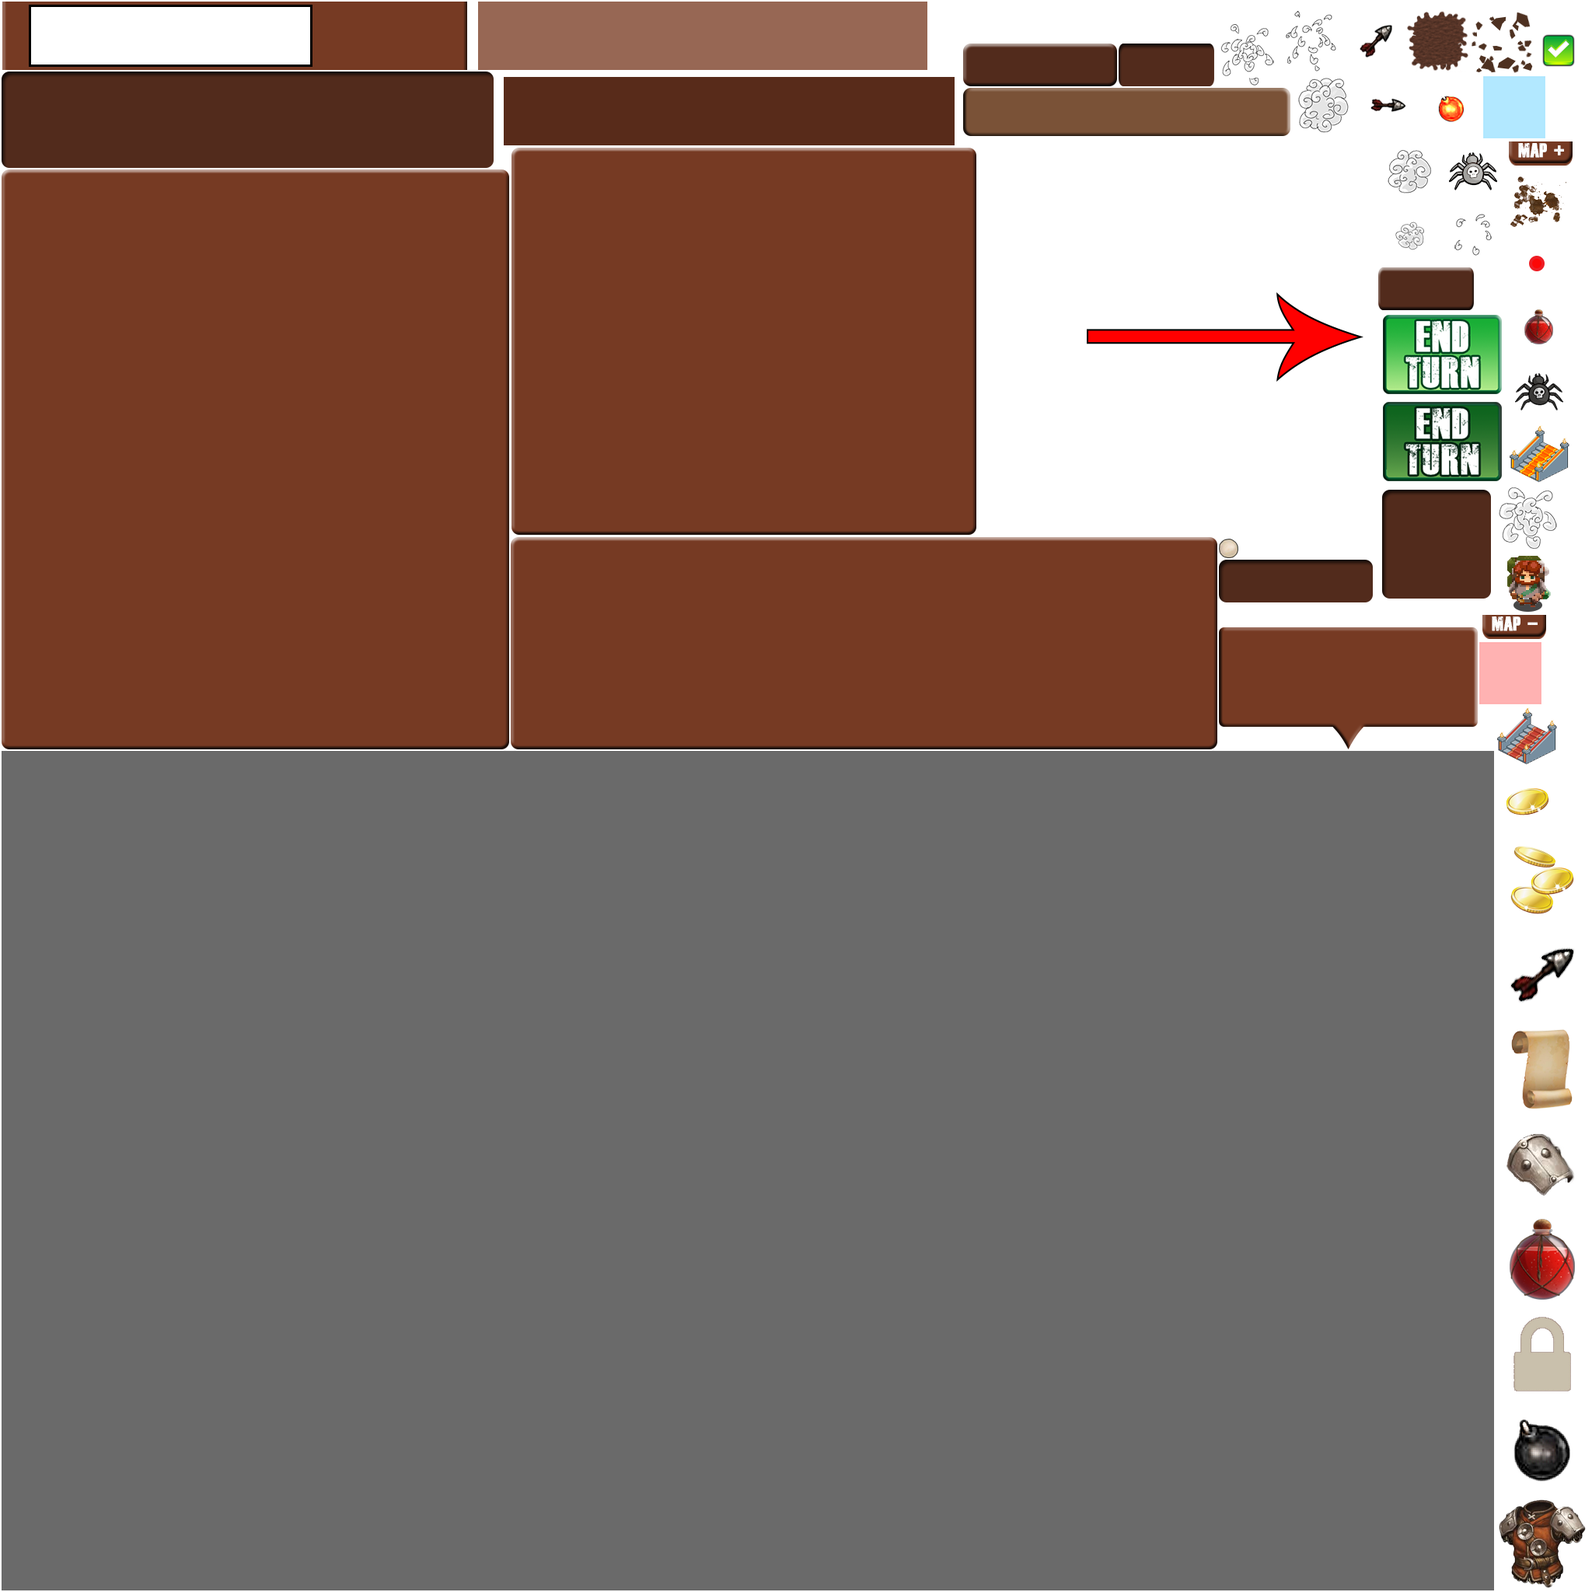
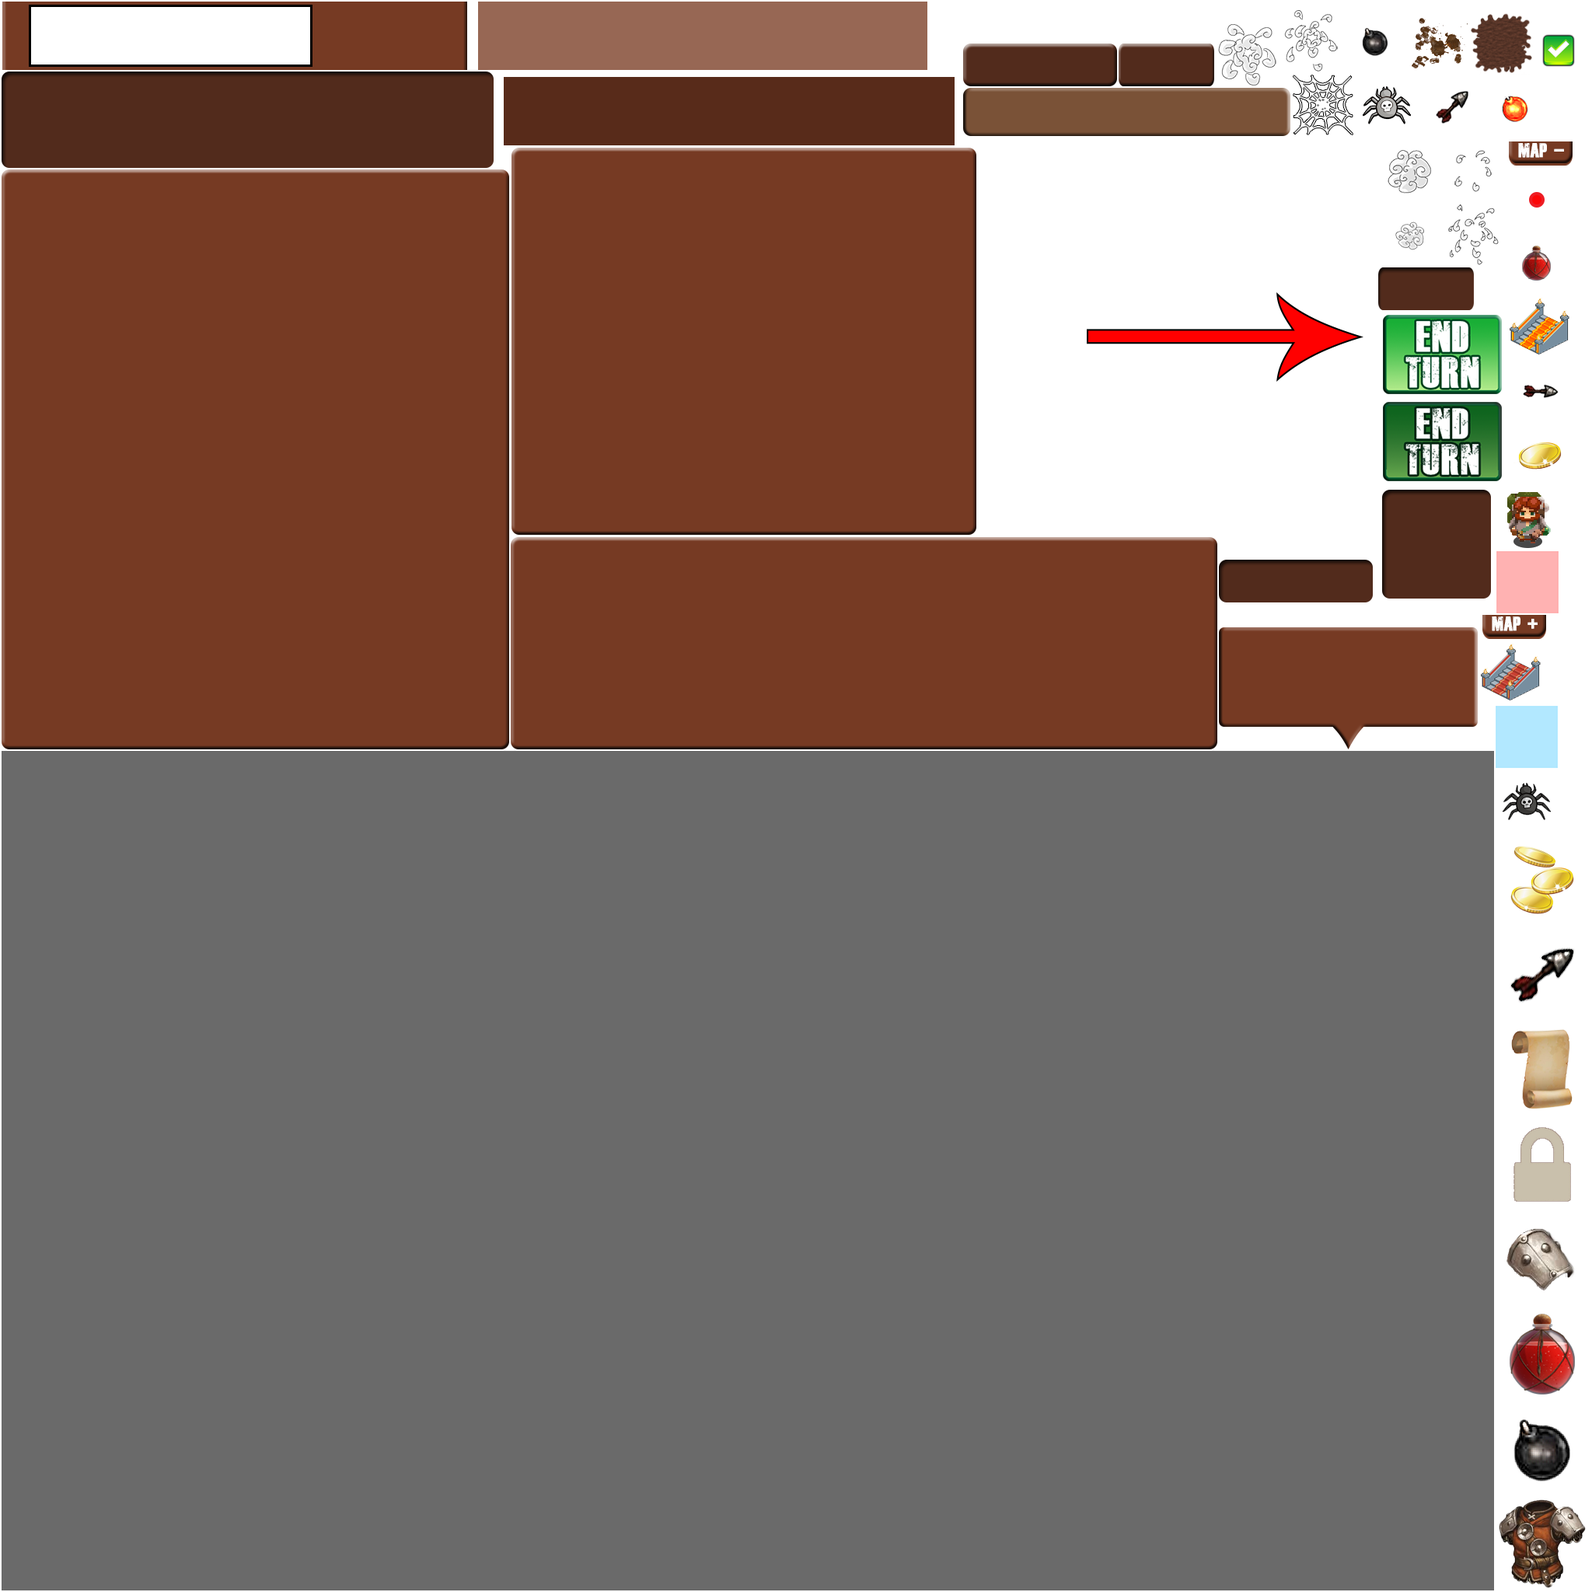
[Web spider] Added the creepEmitterComponent to that the spider leaves web on it's trail + added the projectile image when the spider attacks.

Changed region(s): [[0.75, 0.0, 1.0, 0.5312], [0.9375, 0.6875, 1.0, 0.875]]

diff --git a/core/src/com/dokkaebistudio/tacticaljourney/systems/EnemySystem.java b/core/src/com/dokkaebistudio/tacticaljourney/systems/EnemySystem.java
@@ -7,6 +7,9 @@ import java.util.Map;
 
 import com.badlogic.ashley.core.Entity;
 import com.badlogic.ashley.core.EntitySystem;
+import com.badlogic.gdx.scenes.scene2d.Action;
+import com.badlogic.gdx.scenes.scene2d.Stage;
+import com.dokkaebistudio.tacticaljourney.Assets;
 import com.dokkaebistudio.tacticaljourney.ai.enemies.EnemyActionSelector;
 import com.dokkaebistudio.tacticaljourney.ai.movements.AttackTileSearchService;
 import com.dokkaebistudio.tacticaljourney.ai.movements.AttackTypeEnum;
@@ -28,6 +31,9 @@ public class EnemySystem extends EntitySystem implements RoomSystem {
 
     /** The room. */
     private Room room;
+    
+    /** The fx stage for attack animations. */
+    private Stage fxStage;
    
     /** The enemies of the current room that need updating. */
     private List<Entity> allEnemiesOfCurrentRoom;
@@ -39,12 +45,16 @@ public class EnemySystem extends EntitySystem implements RoomSystem {
 	private TileSearchService tileSearchService;
 	/** The attack tile search service. */
 	private AttackTileSearchService attackTileSearchService;
+	
+	
+	private int enemyFinishedCount = 0;
 
 
-    public EnemySystem(Room r) {
+    public EnemySystem(Room r, Stage stage) {
 		this.priority = 9;
 
         room = r;
+        fxStage = stage;
         movementHandler = new MovementHandler(r.engine);
         allEnemiesOfCurrentRoom = new ArrayList<>();
 		this.tileSearchService = new TileSearchService();
@@ -75,8 +85,8 @@ public class EnemySystem extends EntitySystem implements RoomSystem {
     	}
     	
     	
-    	int enemyFinishedCount = 0;
-    	for (Entity enemyEntity : allEnemiesOfCurrentRoom) {
+    	enemyFinishedCount = 0;
+    	for (final Entity enemyEntity : allEnemiesOfCurrentRoom) {
     		HealthComponent healthComponent = Mappers.healthComponent.get(enemyEntity);
     		if (healthComponent == null || healthComponent.isDead()) {
     			continue;
@@ -88,8 +98,8 @@ public class EnemySystem extends EntitySystem implements RoomSystem {
     		}
     		
         	MoveComponent moveCompo = Mappers.moveComponent.get(enemyEntity);
-        	AttackComponent attackCompo = Mappers.attackComponent.get(enemyEntity);
-        	GridPositionComponent moverCurrentPos = Mappers.gridPositionComponent.get(enemyEntity);
+        	final AttackComponent attackCompo = Mappers.attackComponent.get(enemyEntity);
+        	GridPositionComponent enemyCurrentPos = Mappers.gridPositionComponent.get(enemyEntity);
     		
     		switch(room.getState()) {
         	case ENEMY_TURN_INIT :
@@ -124,7 +134,7 @@ public class EnemySystem extends EntitySystem implements RoomSystem {
     				moveCompo.setSelectedTile(destinationTileEntity);
     					
     				//Display the way to go to this point
-    				List<Entity> waypoints = tileSearchService.buildWaypointList(moveCompo, moverCurrentPos, destinationPos, room);
+    				List<Entity> waypoints = tileSearchService.buildWaypointList(moveCompo, enemyCurrentPos, destinationPos, room);
     		       	moveCompo.setWayPoints(waypoints);
     		       	moveCompo.hideMovementEntities();
             		room.setNextState(RoomState.ENEMY_MOVE_DESTINATION_SELECTED);
@@ -166,24 +176,61 @@ public class EnemySystem extends EntitySystem implements RoomSystem {
         	case ENEMY_ATTACK:
         		
         		//Check if attack possible
+        		boolean attacked = false;
     	    	if (attackCompo.attackableTiles != null && !attackCompo.attackableTiles.isEmpty()) {
     	    		for (Entity attTile : attackCompo.attackableTiles) {
     	    			GridPositionComponent attTilePos = Mappers.gridPositionComponent.get(attTile);
-    	    			int range = TileUtil.getDistanceBetweenTiles(moverCurrentPos.coord(), attTilePos.coord());
+    	    			int range = TileUtil.getDistanceBetweenTiles(enemyCurrentPos.coord(), attTilePos.coord());
 						if (range <= attackCompo.getRangeMax() && range >= attackCompo.getRangeMin()) {
     	    				//Attack possible
 							Entity target = TileUtil.getAttackableEntityOnTile(attTilePos.coord(), room);
             				attackCompo.setTarget(target);
-							room.attackManager.performAttack(enemyEntity, attackCompo);
+            				
+            				attacked = true;
+            				room.setNextState(RoomState.ENEMY_ATTACK_ANIMATION);
     	    			}
     	    		}
     	    	}
-    	    	attackCompo.clearAttackableTiles();
+    	    	attackCompo.hideAttackableTiles();
     	    	
-    	    	enemyFinishedCount ++;
-    	    	turnFinished.put(enemyEntity, new Boolean(true));
-    	    	room.setNextState(RoomState.ENEMY_TURN_INIT);
+    	    	if (!attacked) {
+    	    		finishOneEnemyTurn(enemyEntity, attackCompo);
+    	    	}
     	    	
+        		break;
+        		
+        	case ENEMY_ATTACK_ANIMATION:
+        		
+        		// Play attack animation
+				if (attackCompo.getAttackType() == AttackTypeEnum.RANGE) {
+	    			
+	    			if (attackCompo.getProjectileImage() == null) {
+	    				
+	    				Action finishAttackAction = new Action(){
+						  @Override
+						  public boolean act(float delta){
+							room.attackManager.performAttack(enemyEntity, attackCompo);
+		    	    		finishOneEnemyTurn(enemyEntity, attackCompo);
+						    return true;
+						  }
+						};
+	    				
+	    				GridPositionComponent targetPos = Mappers.gridPositionComponent.get(attackCompo.getTarget());
+	    				attackCompo.setProjectileImage(Assets.projectile_web,
+	    						enemyCurrentPos.coord(), 
+	    						targetPos.coord(), 
+	    						true,
+	    						finishAttackAction);
+	    				
+	    				fxStage.addActor(attackCompo.getProjectileImage());
+	    			}
+	    			
+	    		} else {
+					room.attackManager.performAttack(enemyEntity, attackCompo);
+    	    		finishOneEnemyTurn(enemyEntity, attackCompo);
+	    		}
+
+        		
         		break;
         		
         	default:
@@ -201,6 +248,18 @@ public class EnemySystem extends EntitySystem implements RoomSystem {
 		}
     	
     }
+
+	private void finishOneEnemyTurn(Entity enemyEntity, AttackComponent attackCompo) {
+    	attackCompo.clearAttackableTiles();
+		if (attackCompo.getProjectileImage() != null) {
+			attackCompo.getProjectileImage().remove();
+			attackCompo.setProjectileImage(null);
+		}
+    	
+		enemyFinishedCount ++;
+		turnFinished.put(enemyEntity, new Boolean(true));
+		room.setNextState(RoomState.ENEMY_TURN_INIT);
+	}
 
 	private void fillEntitiesOfCurrentRoom() {
 		allEnemiesOfCurrentRoom.clear();

diff --git a/core/src/com/dokkaebistudio/tacticaljourney/util/Mappers.java b/core/src/com/dokkaebistudio/tacticaljourney/util/Mappers.java
@@ -5,7 +5,6 @@ package com.dokkaebistudio.tacticaljourney.util;
 
 import com.badlogic.ashley.core.ComponentMapper;
 import com.dokkaebistudio.tacticaljourney.components.AttackComponent;
-import com.dokkaebistudio.tacticaljourney.components.CreepComponent;
 import com.dokkaebistudio.tacticaljourney.components.DestructibleComponent;
 import com.dokkaebistudio.tacticaljourney.components.DialogComponent;
 import com.dokkaebistudio.tacticaljourney.components.DoorComponent;
@@ -19,6 +18,8 @@ import com.dokkaebistudio.tacticaljourney.components.ShopKeeperComponent;
 import com.dokkaebistudio.tacticaljourney.components.SlowMovementComponent;
 import com.dokkaebistudio.tacticaljourney.components.SolidComponent;
 import com.dokkaebistudio.tacticaljourney.components.TileComponent;
+import com.dokkaebistudio.tacticaljourney.components.creep.CreepComponent;
+import com.dokkaebistudio.tacticaljourney.components.creep.CreepEmitterComponent;
 import com.dokkaebistudio.tacticaljourney.components.display.AnimationComponent;
 import com.dokkaebistudio.tacticaljourney.components.display.DamageDisplayComponent;
 import com.dokkaebistudio.tacticaljourney.components.display.GridPositionComponent;
@@ -91,6 +92,8 @@ public final class Mappers {
 	
 	public final static ComponentMapper<SolidComponent> solidComponent = ComponentMapper.getFor(SolidComponent.class);
 	public final static ComponentMapper<CreepComponent> creepComponent = ComponentMapper.getFor(CreepComponent.class);
+	public final static ComponentMapper<CreepEmitterComponent> creepEmitterComponent = ComponentMapper.getFor(CreepEmitterComponent.class);
+	
 	public final static ComponentMapper<SlowMovementComponent> slowMoveComponent = ComponentMapper.getFor(SlowMovementComponent.class);
 	public final static ComponentMapper<ExplosiveComponent> explosiveComponent = ComponentMapper.getFor(ExplosiveComponent.class);
 	public final static ComponentMapper<DestructibleComponent> destructibleComponent = ComponentMapper.getFor(DestructibleComponent.class);

diff --git a/core/src/com/dokkaebistudio/tacticaljourney/components/creep/CreepEmitterComponent.java b/core/src/com/dokkaebistudio/tacticaljourney/components/creep/CreepEmitterComponent.java
@@ -1,0 +1,60 @@
+package com.dokkaebistudio.tacticaljourney.components.creep;
+
+import com.badlogic.ashley.core.Component;
+import com.badlogic.ashley.core.Entity;
+import com.badlogic.gdx.math.Vector2;
+import com.badlogic.gdx.utils.Pool.Poolable;
+import com.dokkaebistudio.tacticaljourney.enums.creep.CreepEnum;
+import com.dokkaebistudio.tacticaljourney.room.Room;
+import com.dokkaebistudio.tacticaljourney.util.TileUtil;
+
+/**
+ * Marker to indicate that this entity is a creep on the floor and have an effect when an entity
+ * walk on it.
+ * @author Callil
+ *
+ */
+public class CreepEmitterComponent implements Component, Poolable {
+	
+	/** The type of creep to emit. */
+	private CreepEnum type;
+	
+		
+	
+	
+	
+	@Override
+	public void reset() {}
+	
+	public Entity emit(Entity emitter, Vector2 position, Room room) {
+		Entity creep = null;
+		
+		switch(type) {
+		case WEB:
+			Entity creepAlreadyThere = TileUtil.getEntityWithComponentOnTile(position, CreepComponent.class, room);
+			if (creepAlreadyThere != null) room.removeEntity(creepAlreadyThere);
+			
+			creep = room.entityFactory.creepFactory.createWeb(room, position);
+			
+			break;
+			default:		
+		}
+		
+		
+		type.onEmit(emitter, creep,room);
+		return creep;
+	}
+
+	
+	//*************************
+	// Getters and Setters
+
+	public CreepEnum getType() {
+		return type;
+	}
+
+	public void setType(CreepEnum type) {
+		this.type = type;
+	}
+	
+}

diff --git a/core/src/com/dokkaebistudio/tacticaljourney/factory/EnemyFactory.java b/core/src/com/dokkaebistudio/tacticaljourney/factory/EnemyFactory.java
@@ -16,10 +16,12 @@ import com.dokkaebistudio.tacticaljourney.components.ExpRewardComponent;
 import com.dokkaebistudio.tacticaljourney.components.HealthComponent;
 import com.dokkaebistudio.tacticaljourney.components.LootRewardComponent;
 import com.dokkaebistudio.tacticaljourney.components.SolidComponent;
+import com.dokkaebistudio.tacticaljourney.components.creep.CreepEmitterComponent;
 import com.dokkaebistudio.tacticaljourney.components.display.GridPositionComponent;
 import com.dokkaebistudio.tacticaljourney.components.display.MoveComponent;
 import com.dokkaebistudio.tacticaljourney.components.display.SpriteComponent;
 import com.dokkaebistudio.tacticaljourney.constants.ZIndexConstants;
+import com.dokkaebistudio.tacticaljourney.enums.creep.CreepEnum;
 import com.dokkaebistudio.tacticaljourney.enums.enemy.EnemyFactionEnum;
 import com.dokkaebistudio.tacticaljourney.enums.enemy.EnemyMoveStrategy;
 import com.dokkaebistudio.tacticaljourney.room.Room;
@@ -183,6 +185,10 @@ public final class EnemyFactory {
 		LootRewardComponent lootRewardCompo = engine.createComponent(LootRewardComponent.class);
 		lootRewardCompo.setDropRate(15);
 		enemyEntity.add(lootRewardCompo);
+		
+		CreepEmitterComponent creepEmitter = engine.createComponent(CreepEmitterComponent.class);
+		creepEmitter.setType(CreepEnum.WEB);
+		enemyEntity.add(creepEmitter);
 		
 		room.addEnemy(enemyEntity);
 		

diff --git a/core/src/com/dokkaebistudio/tacticaljourney/util/MovementHandler.java b/core/src/com/dokkaebistudio/tacticaljourney/util/MovementHandler.java
@@ -7,14 +7,12 @@ import com.badlogic.ashley.core.Component;
 import com.badlogic.ashley.core.Entity;
 import com.badlogic.ashley.core.PooledEngine;
 import com.badlogic.gdx.math.Vector2;
-import com.dokkaebistudio.tacticaljourney.components.CreepComponent;
 import com.dokkaebistudio.tacticaljourney.components.DoorComponent;
-import com.dokkaebistudio.tacticaljourney.components.EnemyComponent;
+import com.dokkaebistudio.tacticaljourney.components.creep.CreepComponent;
 import com.dokkaebistudio.tacticaljourney.components.display.GridPositionComponent;
 import com.dokkaebistudio.tacticaljourney.components.display.MoveComponent;
 import com.dokkaebistudio.tacticaljourney.components.interfaces.MovableInterface;
 import com.dokkaebistudio.tacticaljourney.components.player.PlayerComponent;
-import com.dokkaebistudio.tacticaljourney.enums.enemy.EnemyFactionEnum;
 import com.dokkaebistudio.tacticaljourney.room.Room;
 
 /**
@@ -164,6 +162,10 @@ public class MovementHandler {
 			Mappers.creepComponent.get(creep).onWalk(mover, creep, room);
 		}
 		
+		//Leave creep
+		if (Mappers.creepEmitterComponent.has(mover)) {
+			Mappers.creepEmitterComponent.get(mover).emit(mover, moveCompo.currentMoveDestinationTilePos, room);
+		}
 		
 		// Things that only the player can do, such as go through a door
 		PlayerComponent playerCompo = Mappers.playerComponent.get(mover);

diff --git a/core/src/com/dokkaebistudio/tacticaljourney/factory/CreepFactory.java b/core/src/com/dokkaebistudio/tacticaljourney/factory/CreepFactory.java
@@ -11,13 +11,13 @@ import com.badlogic.gdx.math.Vector2;
 import com.dokkaebistudio.tacticaljourney.Assets;
 import com.dokkaebistudio.tacticaljourney.ai.movements.AttackTypeEnum;
 import com.dokkaebistudio.tacticaljourney.components.AttackComponent;
-import com.dokkaebistudio.tacticaljourney.components.CreepComponent;
 import com.dokkaebistudio.tacticaljourney.components.DestructibleComponent;
 import com.dokkaebistudio.tacticaljourney.components.EnemyComponent;
 import com.dokkaebistudio.tacticaljourney.components.ExpRewardComponent;
 import com.dokkaebistudio.tacticaljourney.components.HealthComponent;
 import com.dokkaebistudio.tacticaljourney.components.LootRewardComponent;
 import com.dokkaebistudio.tacticaljourney.components.SolidComponent;
+import com.dokkaebistudio.tacticaljourney.components.creep.CreepComponent;
 import com.dokkaebistudio.tacticaljourney.components.display.GridPositionComponent;
 import com.dokkaebistudio.tacticaljourney.components.display.MoveComponent;
 import com.dokkaebistudio.tacticaljourney.components.display.SpriteComponent;

diff --git a/core/src/com/dokkaebistudio/tacticaljourney/systems/PlayerAttackSystem.java b/core/src/com/dokkaebistudio/tacticaljourney/systems/PlayerAttackSystem.java
@@ -161,7 +161,7 @@ public class PlayerAttackSystem extends IteratingSystem implements RoomSystem {
 					};
     				
     				GridPositionComponent targetPos = Mappers.gridPositionComponent.get(attackComponent.getTargetedTile());
-    				attackCompo.setProjectileImage(Assets.arrow,
+    				attackCompo.setProjectileImage(Assets.projectile_arrow,
     						attackerCurrentPos.coord(), 
     						targetPos.coord(), 
     						true,
@@ -195,7 +195,7 @@ public class PlayerAttackSystem extends IteratingSystem implements RoomSystem {
 					  }
 					};
 					
-					skillAttackCompo.setProjectileImage(Assets.bomb_animation,
+					skillAttackCompo.setProjectileImage(Assets.projectile_bomb,
 							attackerCurrentPos.coord(), 
 							targetedPosition.coord(), 
 							false,

diff --git a/core/src/com/dokkaebistudio/tacticaljourney/components/creep/CreepComponent.java b/core/src/com/dokkaebistudio/tacticaljourney/components/creep/CreepComponent.java
@@ -1,4 +1,4 @@
-package com.dokkaebistudio.tacticaljourney.components;
+package com.dokkaebistudio.tacticaljourney.components.creep;
 
 import com.badlogic.ashley.core.Component;
 import com.badlogic.ashley.core.Entity;
@@ -69,7 +69,7 @@ public class CreepComponent implements Component, Poolable {
 		CreepComponent creepComponent = Mappers.creepComponent.get(creep);
 
 		if (removeCreepImage == null) {
-			this.removeCreepImage = new Image(Assets.getTexture(Assets.creep_web));
+			this.removeCreepImage = new Image(Assets.getTexture(creepComponent.getType().getImageName()));
 		} else {
 			this.removeCreepImage.clear();
 		}

diff --git a/core/src/com/dokkaebistudio/tacticaljourney/systems/CreepSystem.java b/core/src/com/dokkaebistudio/tacticaljourney/systems/CreepSystem.java
@@ -6,7 +6,7 @@ import com.badlogic.ashley.systems.IteratingSystem;
 import com.badlogic.gdx.scenes.scene2d.Stage;
 import com.badlogic.gdx.scenes.scene2d.ui.Image;
 import com.dokkaebistudio.tacticaljourney.GameScreen;
-import com.dokkaebistudio.tacticaljourney.components.CreepComponent;
+import com.dokkaebistudio.tacticaljourney.components.creep.CreepComponent;
 import com.dokkaebistudio.tacticaljourney.room.Room;
 import com.dokkaebistudio.tacticaljourney.room.RoomState;
 import com.dokkaebistudio.tacticaljourney.util.Mappers;

diff --git a/core/src/com/dokkaebistudio/tacticaljourney/GameScreen.java b/core/src/com/dokkaebistudio/tacticaljourney/GameScreen.java
@@ -179,7 +179,7 @@ public class GameScreen extends ScreenAdapter {
 		engine.addSystem(new WheelSystem(attackWheel, room));
 		engine.addSystem(new ExplosionSystem(room));
 		engine.addSystem(new CreepSystem(this, room, fxStage));
-		engine.addSystem(new EnemySystem(room));
+		engine.addSystem(new EnemySystem(room, fxStage));
 		engine.addSystem(new PlayerAttackSystem(fxStage,room, attackWheel));
 		engine.addSystem(new PlayerMoveSystem(room));
 		engine.addSystem(new ItemSystem(	player, room, fxStage));

diff --git a/core/src/com/dokkaebistudio/tacticaljourney/room/RoomState.java b/core/src/com/dokkaebistudio/tacticaljourney/room/RoomState.java
@@ -41,6 +41,7 @@ public enum RoomState {
 	ENEMY_MOVING,
 	ENEMY_END_MOVEMENT,
 	ENEMY_ATTACK,
+	ENEMY_ATTACK_ANIMATION,
 	
 	ENEMY_END_TURN,
 	
@@ -92,7 +93,8 @@ public enum RoomState {
     			|| this == RoomState.ENEMY_MOVE_DESTINATION_SELECTED 
     			|| this == RoomState.ENEMY_MOVING 
     			|| this == RoomState.ENEMY_END_MOVEMENT
-    			|| this == RoomState.ENEMY_ATTACK;
+    			|| this == RoomState.ENEMY_ATTACK
+				|| this == RoomState.ENEMY_ATTACK_ANIMATION;
 	}
 	
 	/**

diff --git a/core/src/com/dokkaebistudio/tacticaljourney/Assets.java b/core/src/com/dokkaebistudio/tacticaljourney/Assets.java
@@ -126,6 +126,14 @@ public class Assets {
 	public static final String remains_satchel = "remains_satchel";
 
 	
+	//**************
+	// Projectiles
+	
+	public static final String projectile_arrow = "arrow";
+	public static final String projectile_bomb = "bomb";
+	public static final String projectile_web = "projectile-web";
+
+	
 	//********
 	// Creep
 	public static final String creep_web = "creep-web";
